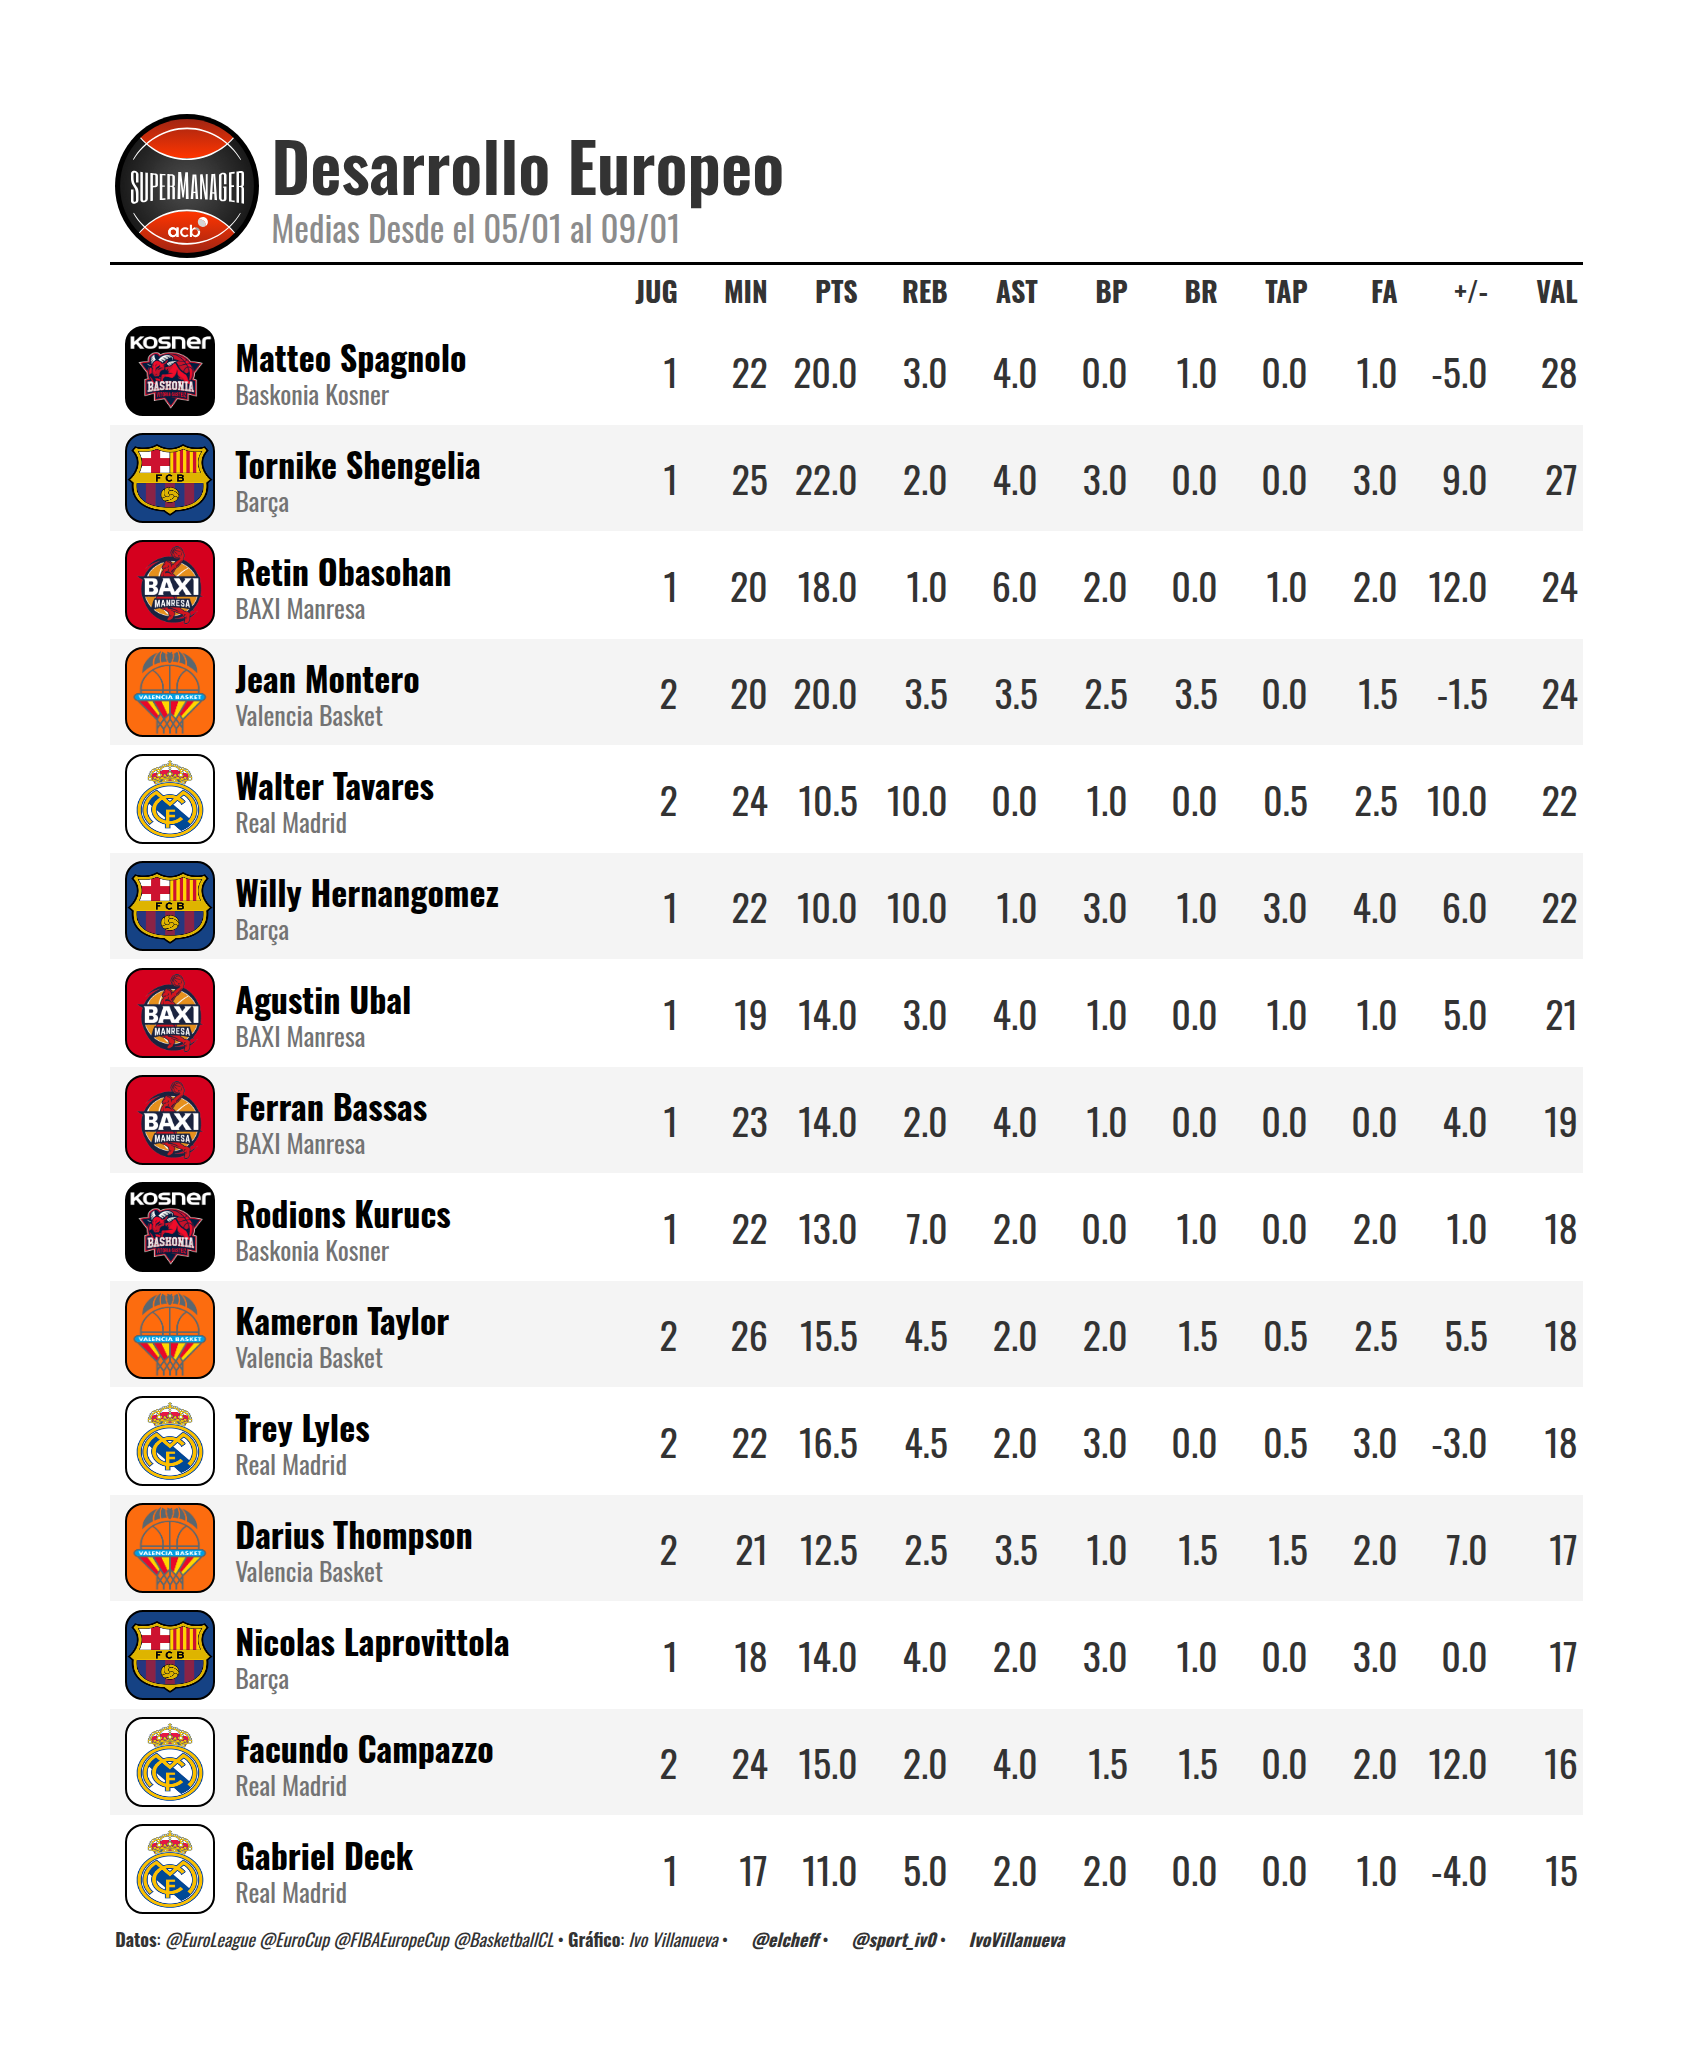
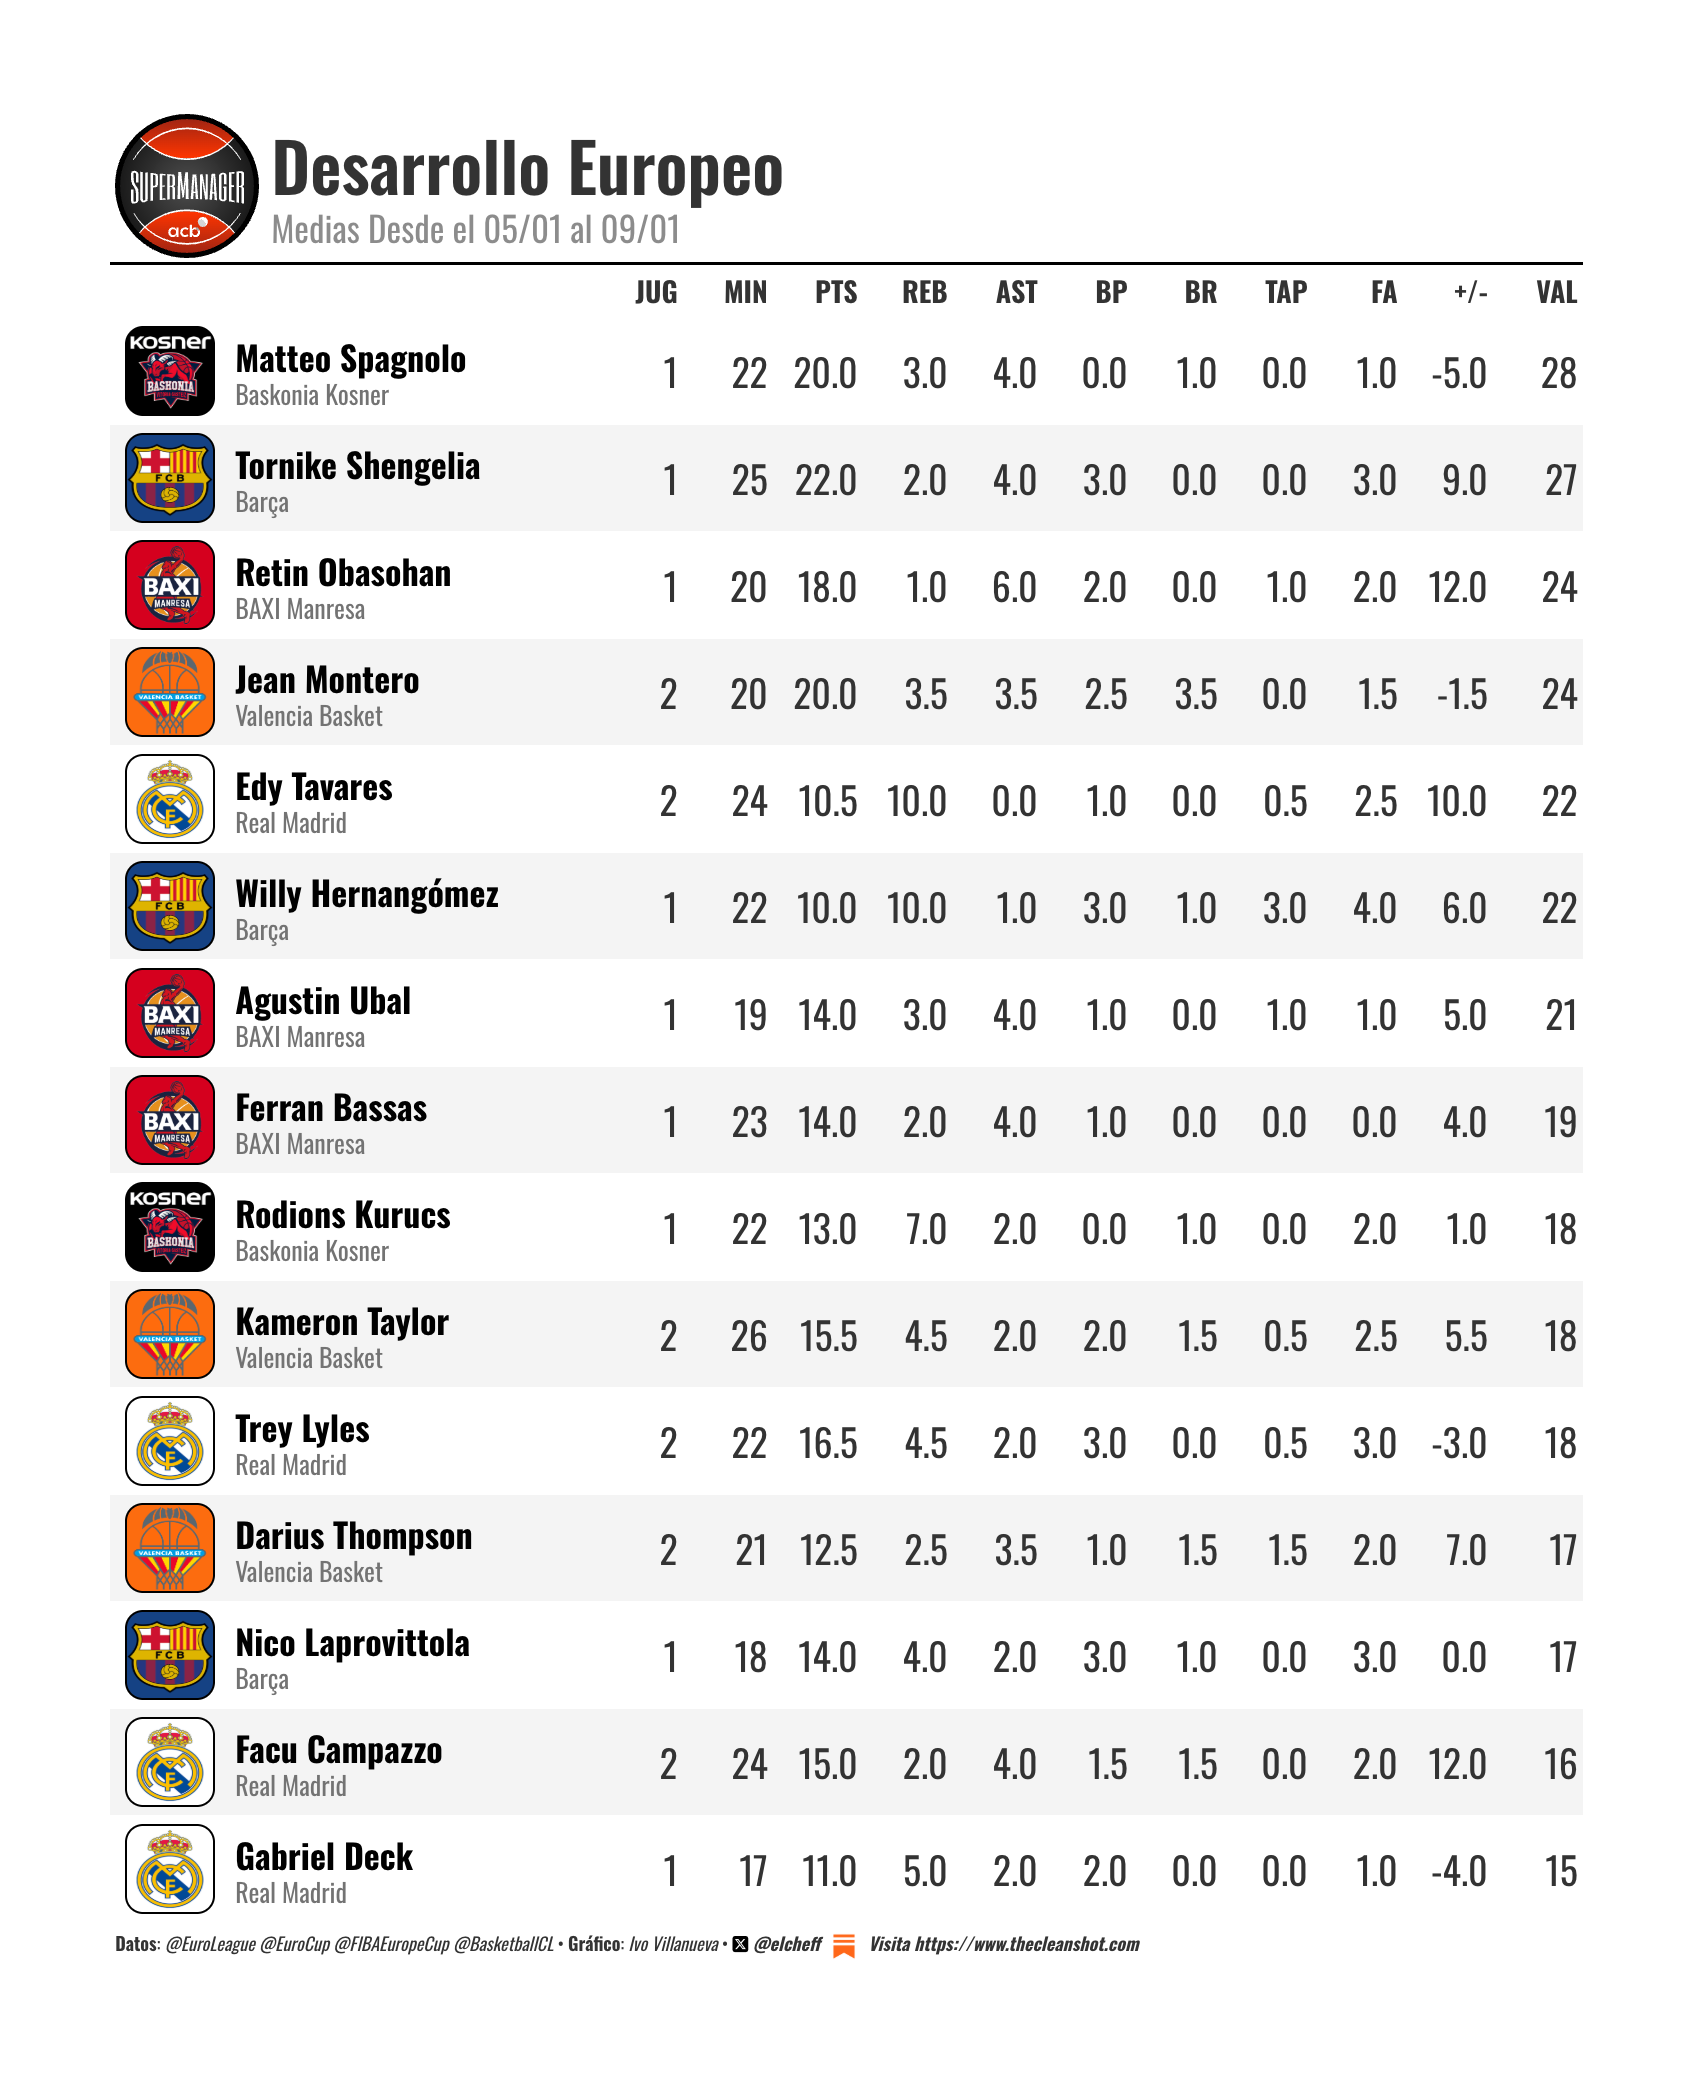
cambio de caption

diff --git a/scripts/union_grafico.py b/scripts/union_grafico.py
@@ -30,11 +30,12 @@ semana = date.today().isocalendar().week
 # Caption
 twitter = "<span style='color:#000000;font-family: \"Font Awesome 6 Brands\"'>&#xE61A;</span>"
 tweetelcheff = "<span style='font-weight:bold;'>*@elcheff*</span>"
-insta = "<span style='color:#E1306C;font-family: \"Font Awesome 6 Brands\"'>&#xE055;</span>"
-instaelcheff = "<span style='font-weight:bold;'>*@sport_iv0*</span>"
-github = "<span style='color:#000000;font-family: \"Font Awesome 6 Brands\"'>&#xF092;</span>"
-githubelcheff = "<span style='font-weight:bold;'>*IvoVillanueva*</span>"
-caption = f"**Datos**: *@EuroLeague @EuroCup @FIBAEuropeCup @BasketballCL* • **Gráfico**: *Ivo Villanueva* • {twitter} {tweetelcheff} • {insta} {instaelcheff} • {github} {githubelcheff}"
+cleanshot = "<span style='font-weight:bold;'>*Visita https://www.thecleanshot.com*</span>"
+caption = f"""
+**Datos**: *@EuroLeague @EuroCup @FIBAEuropeCup @BasketballCL* •
+**Gráfico**: *Ivo Villanueva* • {twitter} {tweetelcheff} <img src='https://substack.com/img/substack.png'
+     style='height:40px;width:40px;vertical-align:middle;'> {cleanshot}
+"""
 
 
 # Funciones
